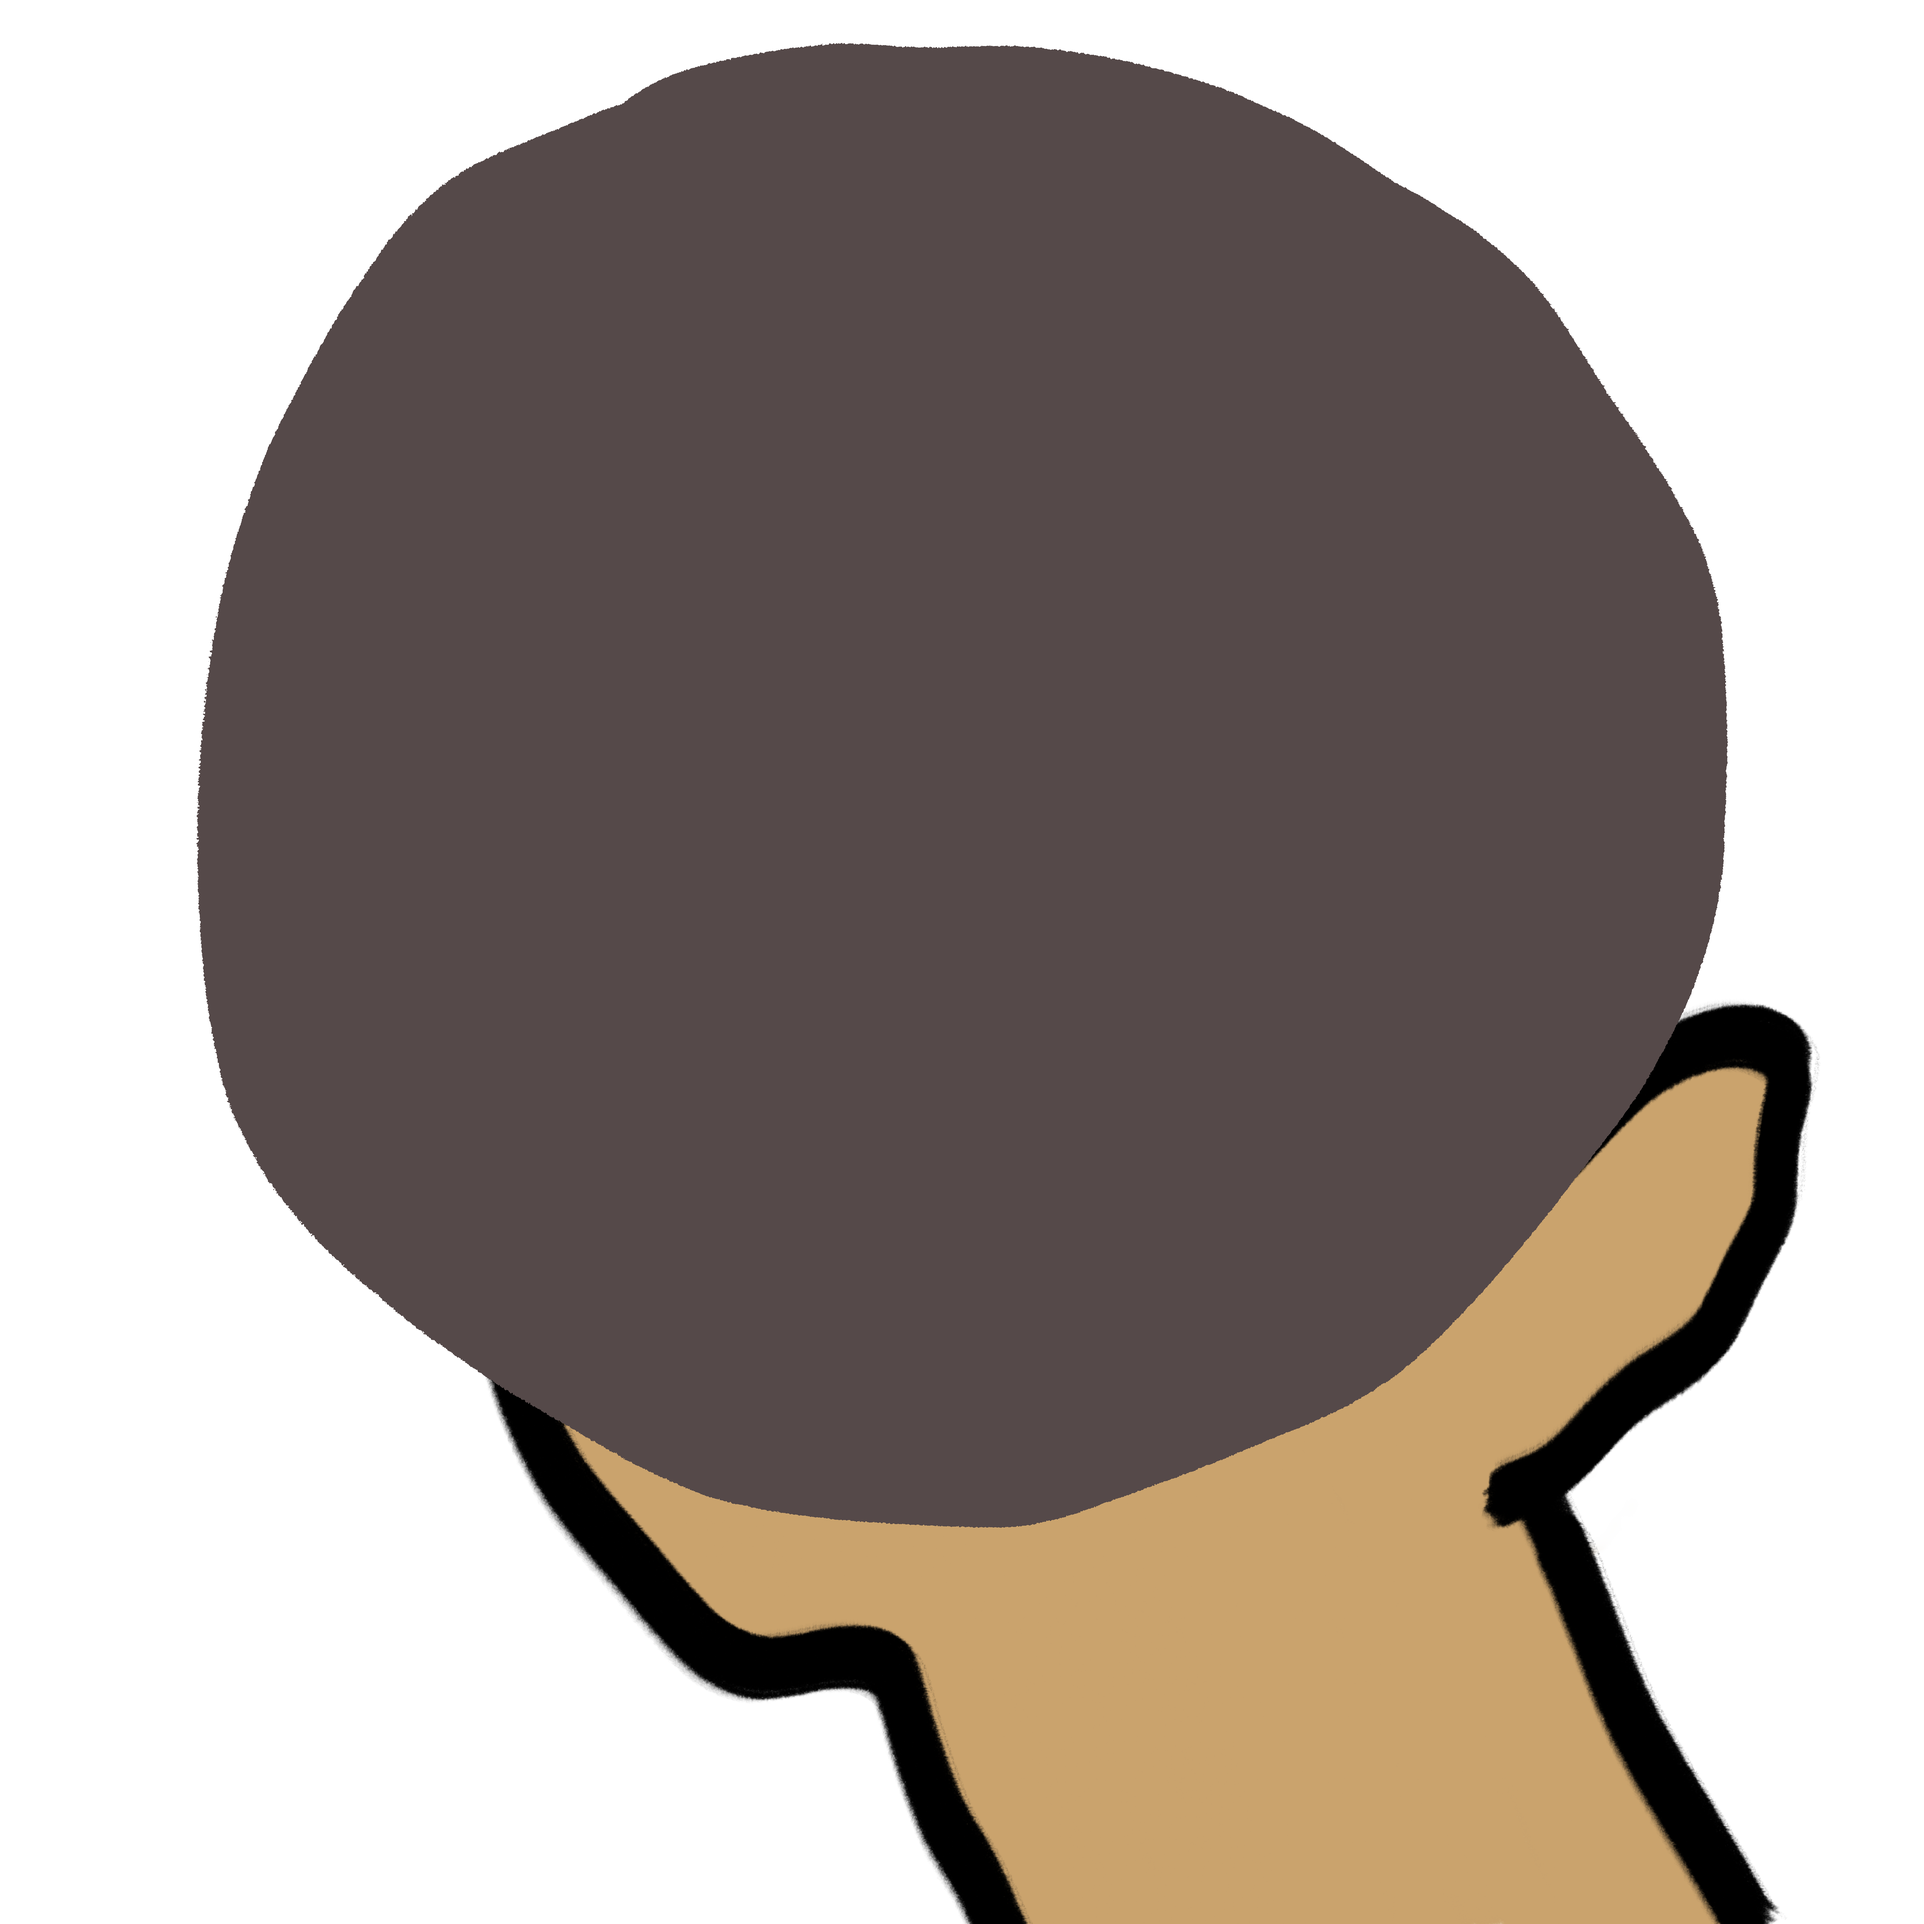
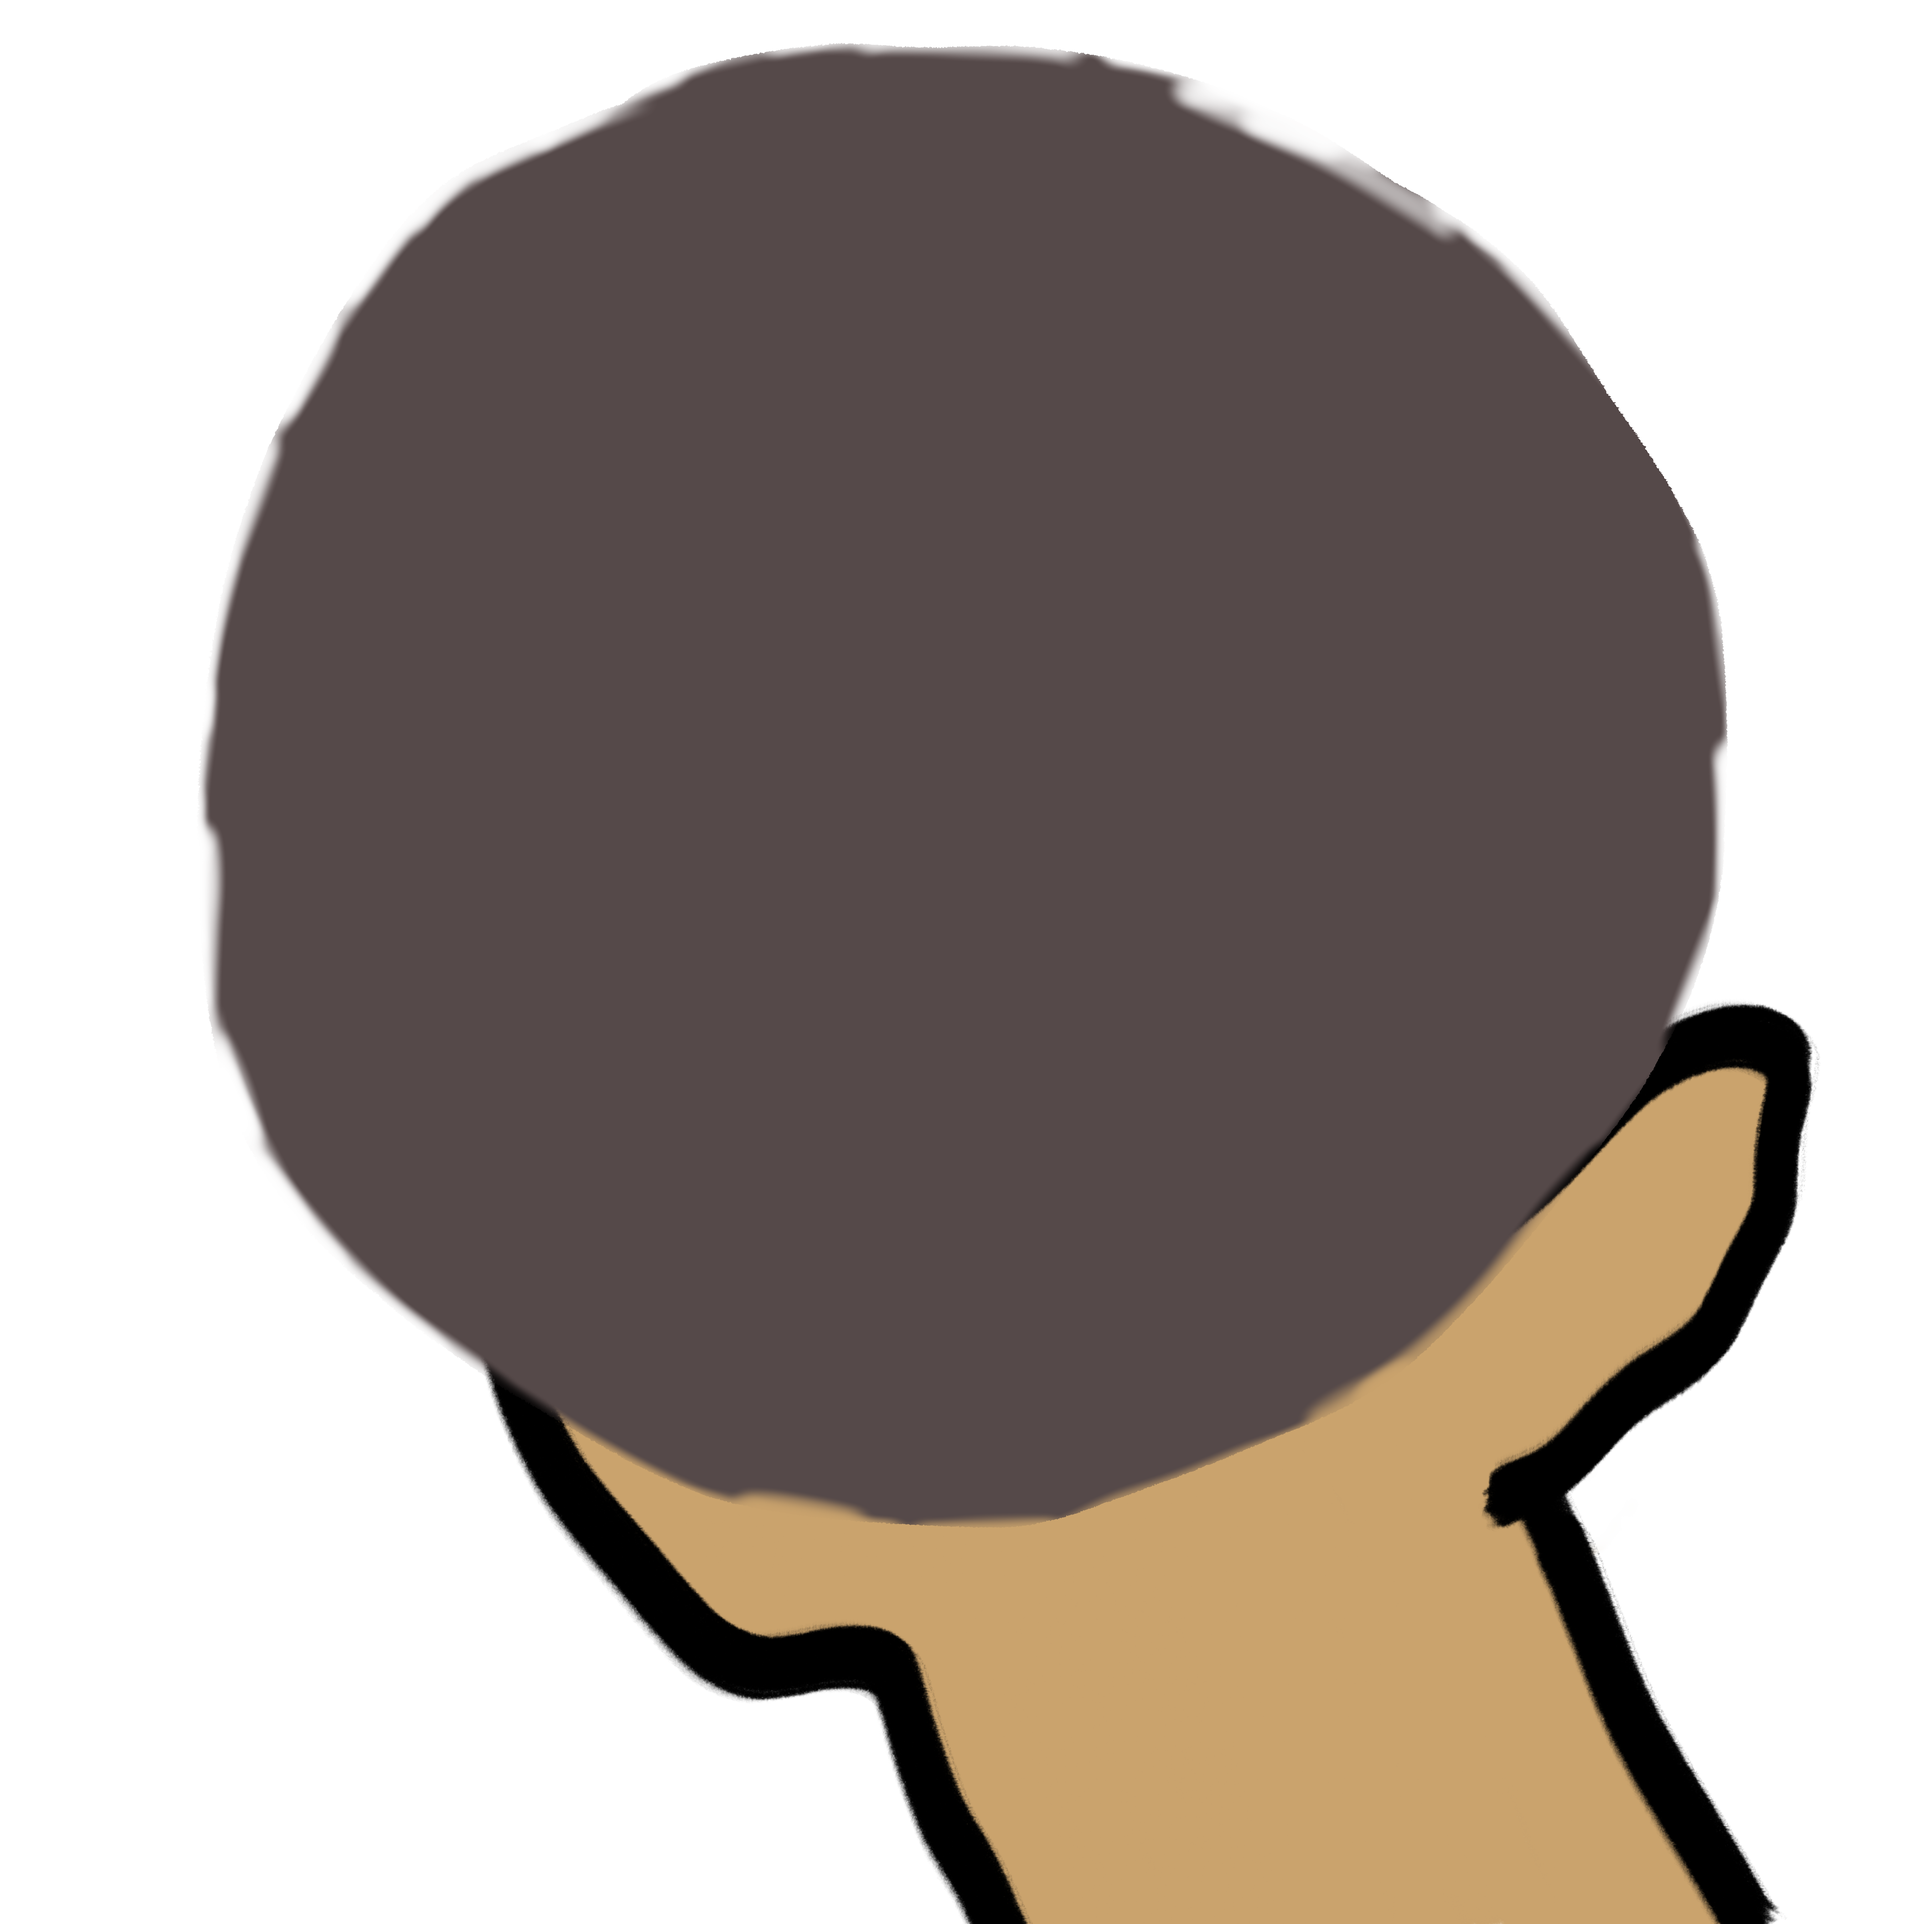
update assets

diff --git a/gen_from_traits.py b/gen_from_traits.py
@@ -1,6 +1,7 @@
 from PIL import Image
 from pprint import pprint as pp
 from random import random
+from os.path import exists
 
 # test shuffle
 DEBUG = False
@@ -26,6 +27,7 @@ LAYER_2 = [
     ("3_1.png", 0.8),
     ("3_2.png", 1.0),
     ("3_3.png", 1.0),
+    ("3_4.png", 0.5),
 ]
 LAYER_3 = [
     ("4_1.png", 1.0),
@@ -33,20 +35,28 @@ LAYER_3 = [
 
 # save image
 def craft(out):
-    print('crafting...', out)
+    outpath = "{}/{}".format(DIR_OUTPUT, out)
+    print('crafting...', outpath)
     if DEBUG: return
 
-    (l0, l1, l2, l3) = list(out.split('.')[0])
+    # skip existing file
+    if exists(outpath):
+        return
 
-    img_l0 = Image.open("{}/1_{}.png".format(DIR_INPUT, l0))
-    img_l1 = Image.open("{}/2_{}.png".format(DIR_INPUT, l1))
-    img_l2 = Image.open("{}/3_{}.png".format(DIR_INPUT, l2))
-    img_l3 = Image.open("{}/4_{}.png".format(DIR_INPUT, l3))
-    layers = [ img_l1, img_l2, img_l3 ]
+    (l0, l1, l2, l3) = list(out.split('.')[0])
+    layers = [
+        Image.open("{}/1_{}.png".format(DIR_INPUT, l0)),
+        Image.open("{}/2_{}.png".format(DIR_INPUT, l1)),
+        Image.open("{}/3_{}.png".format(DIR_INPUT, l2)),
+        Image.open("{}/4_{}.png".format(DIR_INPUT, l3)),
+    ]
+    new_img = Image.new("RGBA", layers[0].size)
 
     for layer in layers:
-        img_l0.paste(layer, (0, 0), layer.convert('RGBA'))
-    img_l0.save("{}/{}".format(DIR_OUTPUT, out), "PNG")
+        #new_img.paste(layer, (0, 0), layer.convert('RGBA')) --- not good border
+        #new_img.paste(layer, (0, 0), layer.convert('RGBa')) --- overlay bug
+        new_img = Image.alpha_composite(new_img, layer)    # --- perfect!
+    new_img.save(outpath, "PNG")
 
 # loop
 for l0 in LAYER_0:
